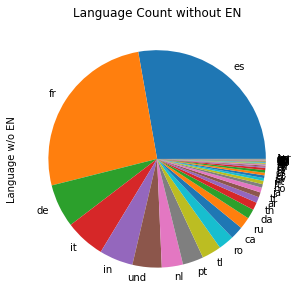
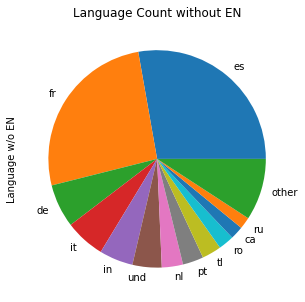
improved language plot

diff --git a/plots/plots.py b/plots/plots.py
@@ -162,6 +162,9 @@ plot.set_xlabel("Language w/o EN")
 plot.set_ylabel("Count")
 
 count = df.loc[df["language"]!="en", "language"].value_counts()
+other = count.loc[count.values < 200]
+count = count.drop(other.index)
+count = count.append(pd.Series({"other": other.sum()}))
 plot = count.plot(kind = 'pie', title = "Language Count without EN", figsize = (5,5))
 plot.set_ylabel("Language w/o EN")
 
